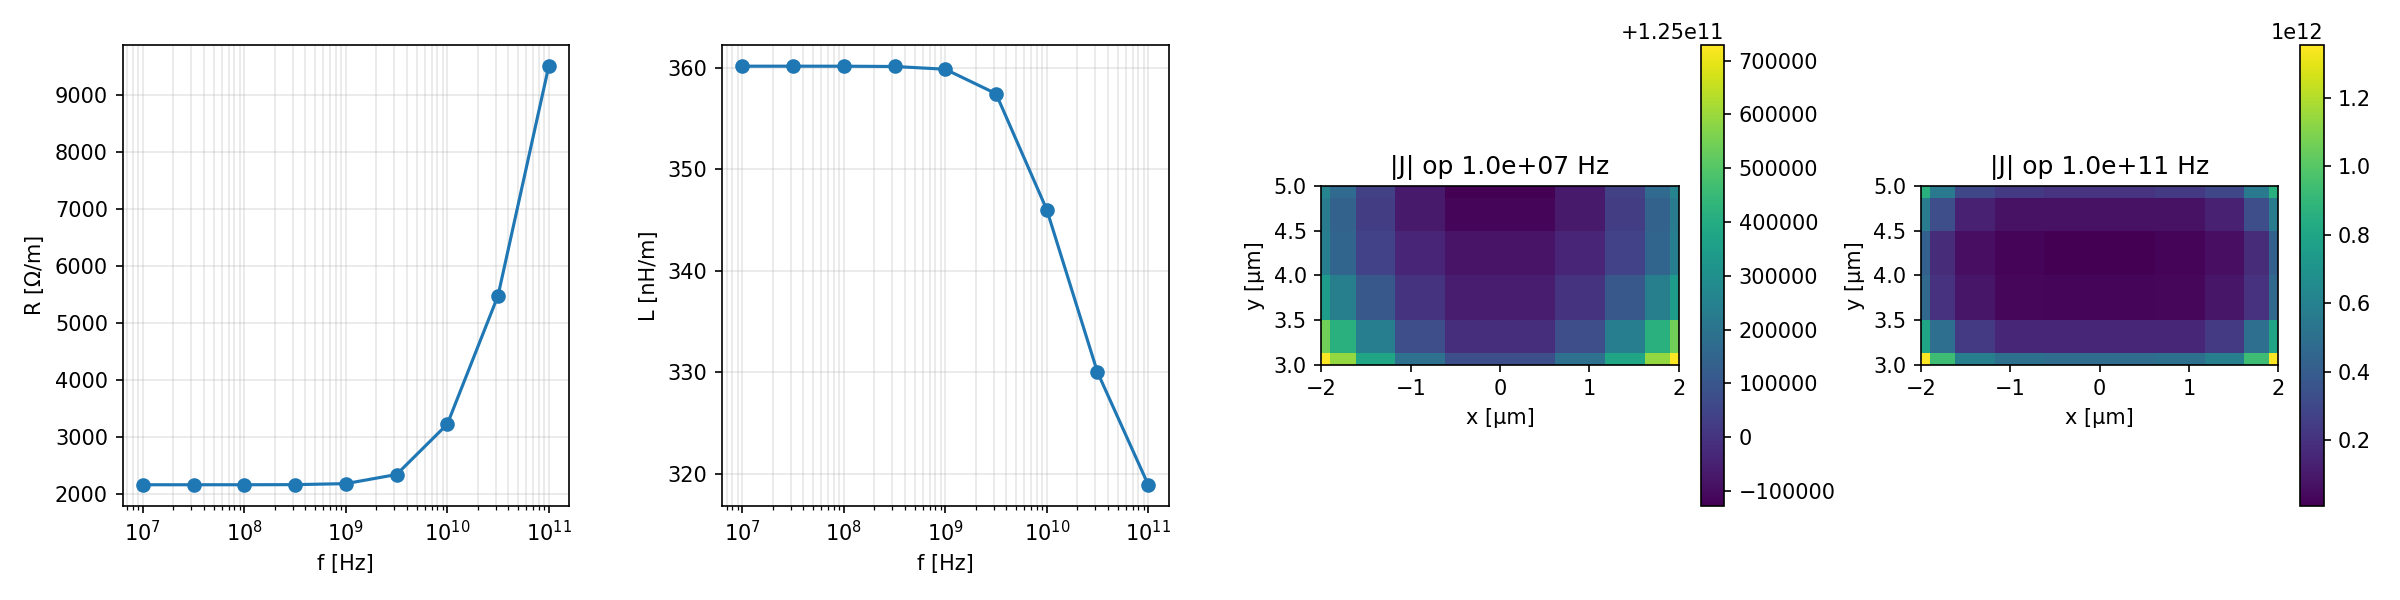
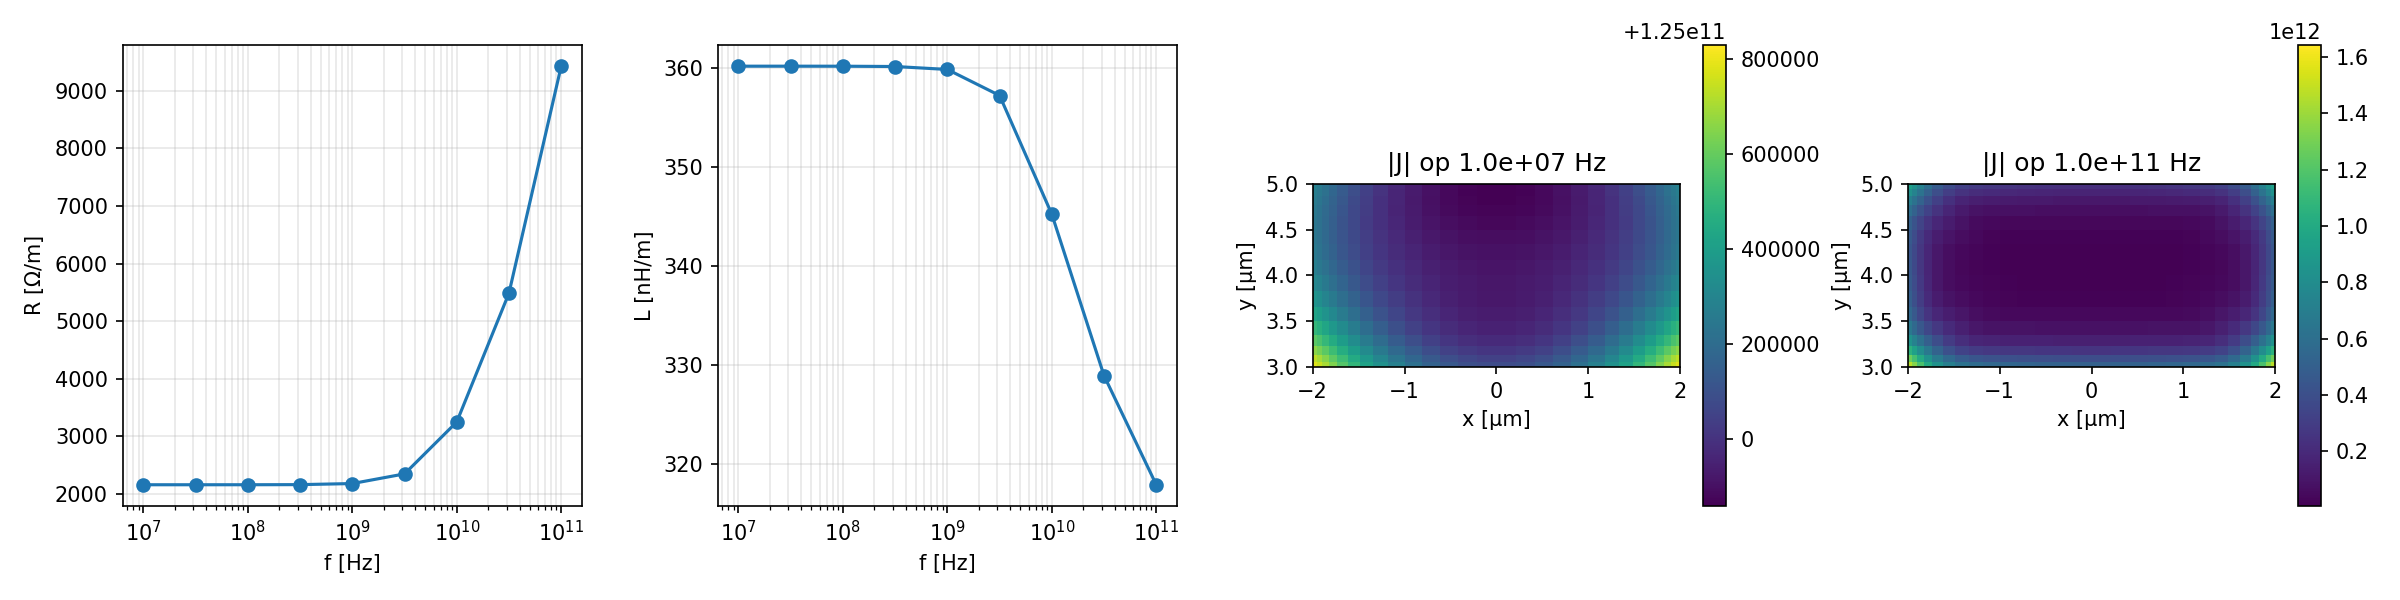
Convergentiecode, hopelijk oke

diff --git a/scripts/convergence.py b/scripts/convergence.py
@@ -1,0 +1,90 @@
+#convergentie bestuderen van R en L bij vaste frequentie
+#Twee situaties bekijken:
+#1) rooster verfijnen (nx, ny), quad order vast
+#2) verfijning van kwadratuur (quad_order), rooster vast.
+#referentie is telkens fijnste manier van instellen: meet de convergentie, niet absolute nauwkeurigheid
+
+import os
+import time
+import matplotlib.pyplot as plt
+import numpy as np
+from src.solver import compute_rl
+
+W_UM, T_UM, H_UM = 4.0, 2.0 , 3.0
+FREQ = 10e9 
+
+MESH_SIZES = [(4, 3), (6, 4), (8, 5), (10, 6), (14, 8), (18, 10), (24, 14), (30, 18), (36, 22)]
+QUAD_FIXED = 4
+QUAD_REF = 12
+MESH_FIXED = (10,6)
+
+#return (R, L, rekentijd) voor een bepaalde discretisatie
+def run(nx, ny, quad_order):
+    t0 = time.perf_counter() #hoogst mogelijke tijdsreolutie voor korte tijdsduren
+    res, _ = compute_rl(W_UM, T_UM, H_UM, [FREQ], nx=nx, ny=ny, quad_order=quad_order)
+    return res.R[0], res.L[0], time.perf_counter()-t0
+
+#Berekent R en L voor elk rooster, plus het verschil met het vorige rooster
+def mesh_study():
+    raw = []
+    for nx, ny in MESH_SIZES:
+        R, L, dt = run(nx, ny, QUAD_FIXED)
+        raw.append((nx, ny, R, L, dt))
+
+    #referentie: het fijnste rooster
+    R_ref, L_ref = raw[-1][2], raw[-1][3]
+
+    rows = []
+    for i, (nx, ny, R, L, dt) in enumerate(raw):
+        eR = abs(R - R_ref) / R_ref          #fout tegenover referentie
+        eL = abs(L - L_ref) / L_ref
+        if i == 0:
+            dR = dL = np.nan                 #geen vorig rooster
+        else:
+            dR = abs(R - raw[i - 1][2]) / R  #verschil met vorige verfijning
+            dL = abs(L - raw[i - 1][3]) / L
+        rows.append((nx, ny, nx * ny, R, L, eR, eL, dR, dL, dt))
+    return rows
+    
+def quad_study():
+    R_ref, L_ref, _ = run(*MESH_FIXED, QUAD_REF)
+    rows = []
+    for q in [2, 3, 4, 6, 8]:
+        R, L, dt = run(*MESH_FIXED, q)
+        rows.append((q, R, L, abs(R-R_ref)/R_ref, abs(L-L_ref)/L_ref, dt))
+    return rows
+
+def main():
+    print("Situatie 1: roosterverfijning (quad_order = %d)" %QUAD_FIXED)
+    print(f"{'nx':>4} {'ny':>4} {'N':>5} {'R [Ohm/m]':>12} {'L [nH/m]':>10} {'fout R':>10} {'fout L':>10} {'dR':>10} {'dL':>10} {'tijd [s]':>9}")
+    mrows = mesh_study()
+    for nx, ny, N, R, L, eR, eL, dR, dL, dt in mrows:
+        print(f"{nx:4d} {ny:4d} {N:5d} {R:12.4e} {L*1e9:10.4f} {eR:10.2e} {eL:10.2e} {dR:10.2e} {dL:10.2e} {dt:9.3f}")
+
+    print(f"\nSituatie 2: kwadratuurverfijning (rooster = {MESH_FIXED})")
+    print(f"{'q':>4} {'R [Ohm/m]':>12} {'L [nH/m]':>10} {'fout R':>10} {'fout L':>10} {'tijd [s]':>9}")
+    qrows = quad_study()
+    for q, R, L, eR, eL, dt in qrows:
+        print(f"{q:4d} {R:12.4e} {L*1e9:10.4f} {eR:10.2e} {eL:10.2e} {dt:9.3f}")
+
+    #plotten: verschil met vorig rooster tegenover het aantal cellen (log-log), eerste rooster weglaten
+    N = np.array([r[2] for r in mrows[1:]])
+    dR = np.array([r[7] for r in mrows[1:]])
+    dL = np.array([r[8] for r in mrows[1:]])
+    fig, ax = plt.subplots(figsize=(6, 4))
+    ax.loglog(N, dR, "o-", label="R")
+    ax.loglog(N, dL, "s-", label="L")
+    ax.axhline(1e-3, ls="--", color="gray", label="drempel 0,1 %")
+    ax.set_xlabel("aantal cellen N")
+    ax.set_ylabel("relatief verschil met vorig rooster")
+    ax.set_title("Convergentie bij 10 GHz")
+    ax.grid(True, which="both", alpha=0.3)
+    ax.legend()
+    fig.tight_layout()
+
+    os.makedirs("results", exist_ok=True)
+    fig.savefig("results/convergence.png", dpi=150)
+    plt.show()
+    
+if __name__ == "__main__":
+    main()

diff --git a/scripts/example.py b/scripts/example.py
@@ -14,7 +14,7 @@ def main():
     w_um, t_um, h_um = 4.0, 2.0, 3.0
     freqs = np.logspace(7, 11, 9)   #10MHz tot 100GHz
 
-    res, mesh = compute_rl(w_um, t_um, h_um, freqs, nx=10, ny=6, quad_order=4)
+    res, mesh = compute_rl(w_um, t_um, h_um, freqs, nx=30, ny=18, quad_order=4)
 
     print(f"{'f [Hz]':>10}  {'R [Ohm/m]':>12}  {'L [nH/m]':>10}")
     for f, R, L in zip(res.freqs, res.R, res.L):
